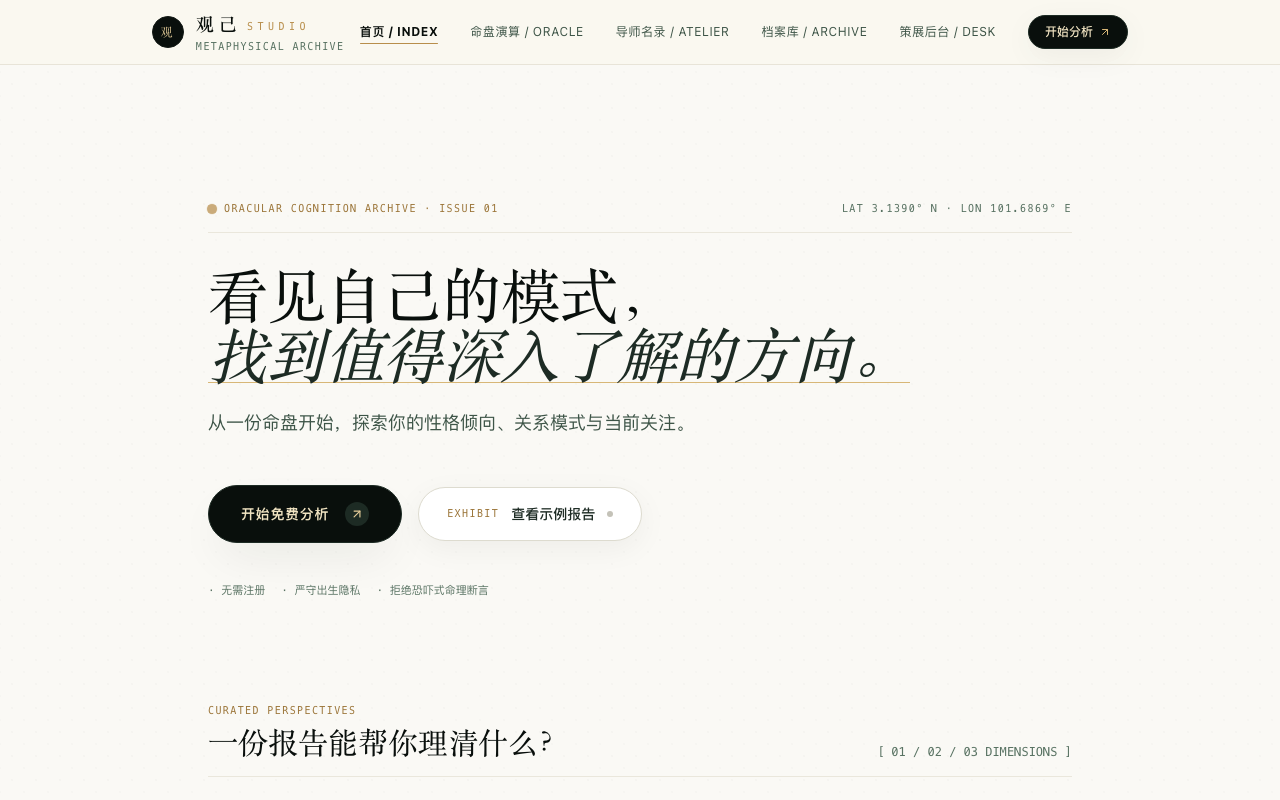
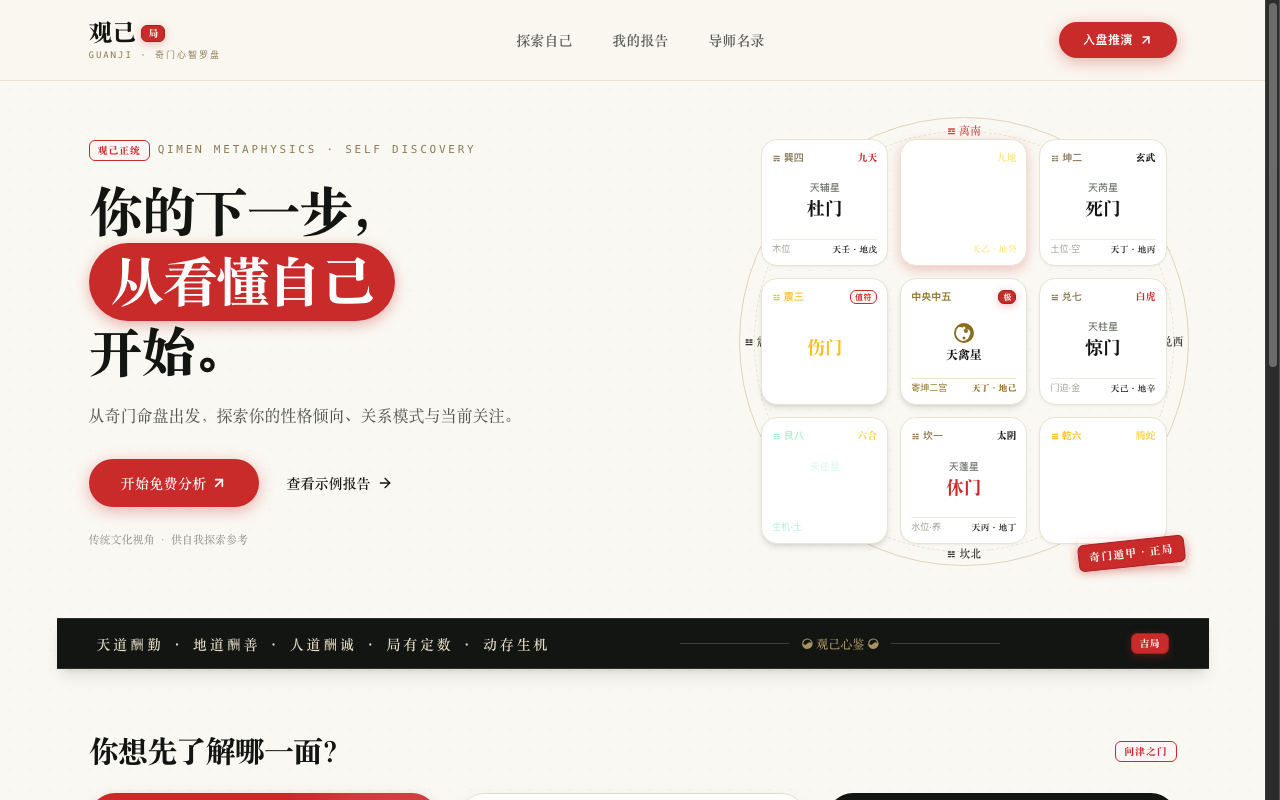
feat: add OH Card project and update Qimen preview cover with live compass design

diff --git a/src/data/siteConfig.ts b/src/data/siteConfig.ts
@@ -326,7 +326,7 @@ export const projectsData: Project[] = [
     description: "以传统奇门遁甲为镜像工具，结合现代心理学与生活对话的高品质个人咨询体验",
     url: "https://qimen-pi.vercel.app/",
     coverImage: "/covers/qimen.png",
-    coverAlt: "观己 奇门遁甲与个人咨询交互原型封面",
+    coverAlt: "观己 奇门心智罗盘与个人咨询演示封面",
     category: "待分类",
     tags: ["奇门遁甲", "心理镜像", "命盘演算"],
     screenshots: [
@@ -348,5 +348,35 @@ export const projectsData: Project[] = [
     visible: true,
     accentColor: "#1B2824",
     coverPattern: "compass",
+  },
+  {
+    id: "ohcard",
+    slug: "ohcard",
+    title: "OH Card",
+    description: "以潜意识投射卡（欧卡）双层图文系统为核心的心灵对话与咨询原型",
+    url: "https://ohcard.vercel.app/",
+    coverImage: "/covers/ohcard.png",
+    coverAlt: "OH Card 潜意识投射卡数字探索与身心灵体验封面",
+    category: "待分类",
+    tags: ["OH卡", "潜意识", "心灵投射"],
+    screenshots: [
+      {
+        url: "/covers/ohcard.png",
+        alt: "OH Card 潜意识图卡数字体验封面",
+      },
+    ],
+    suitableFor: [
+      "适合心理咨询师、OH卡教练与身心灵个案疗愈导师",
+      "适合开展线上远程牌卡抽取、潜意识觉察与咨询工作坊",
+    ],
+    customDirections: [
+      "可定制为流派专属图卡/词卡库在线抽取与动态投射画布",
+      "可支持咨询过程录音要点记录与案主启发报告一键导出",
+    ],
+    featured: false,
+    sortOrder: 10,
+    visible: true,
+    accentColor: "#D92638",
+    coverPattern: "cards",
   },
 ];
